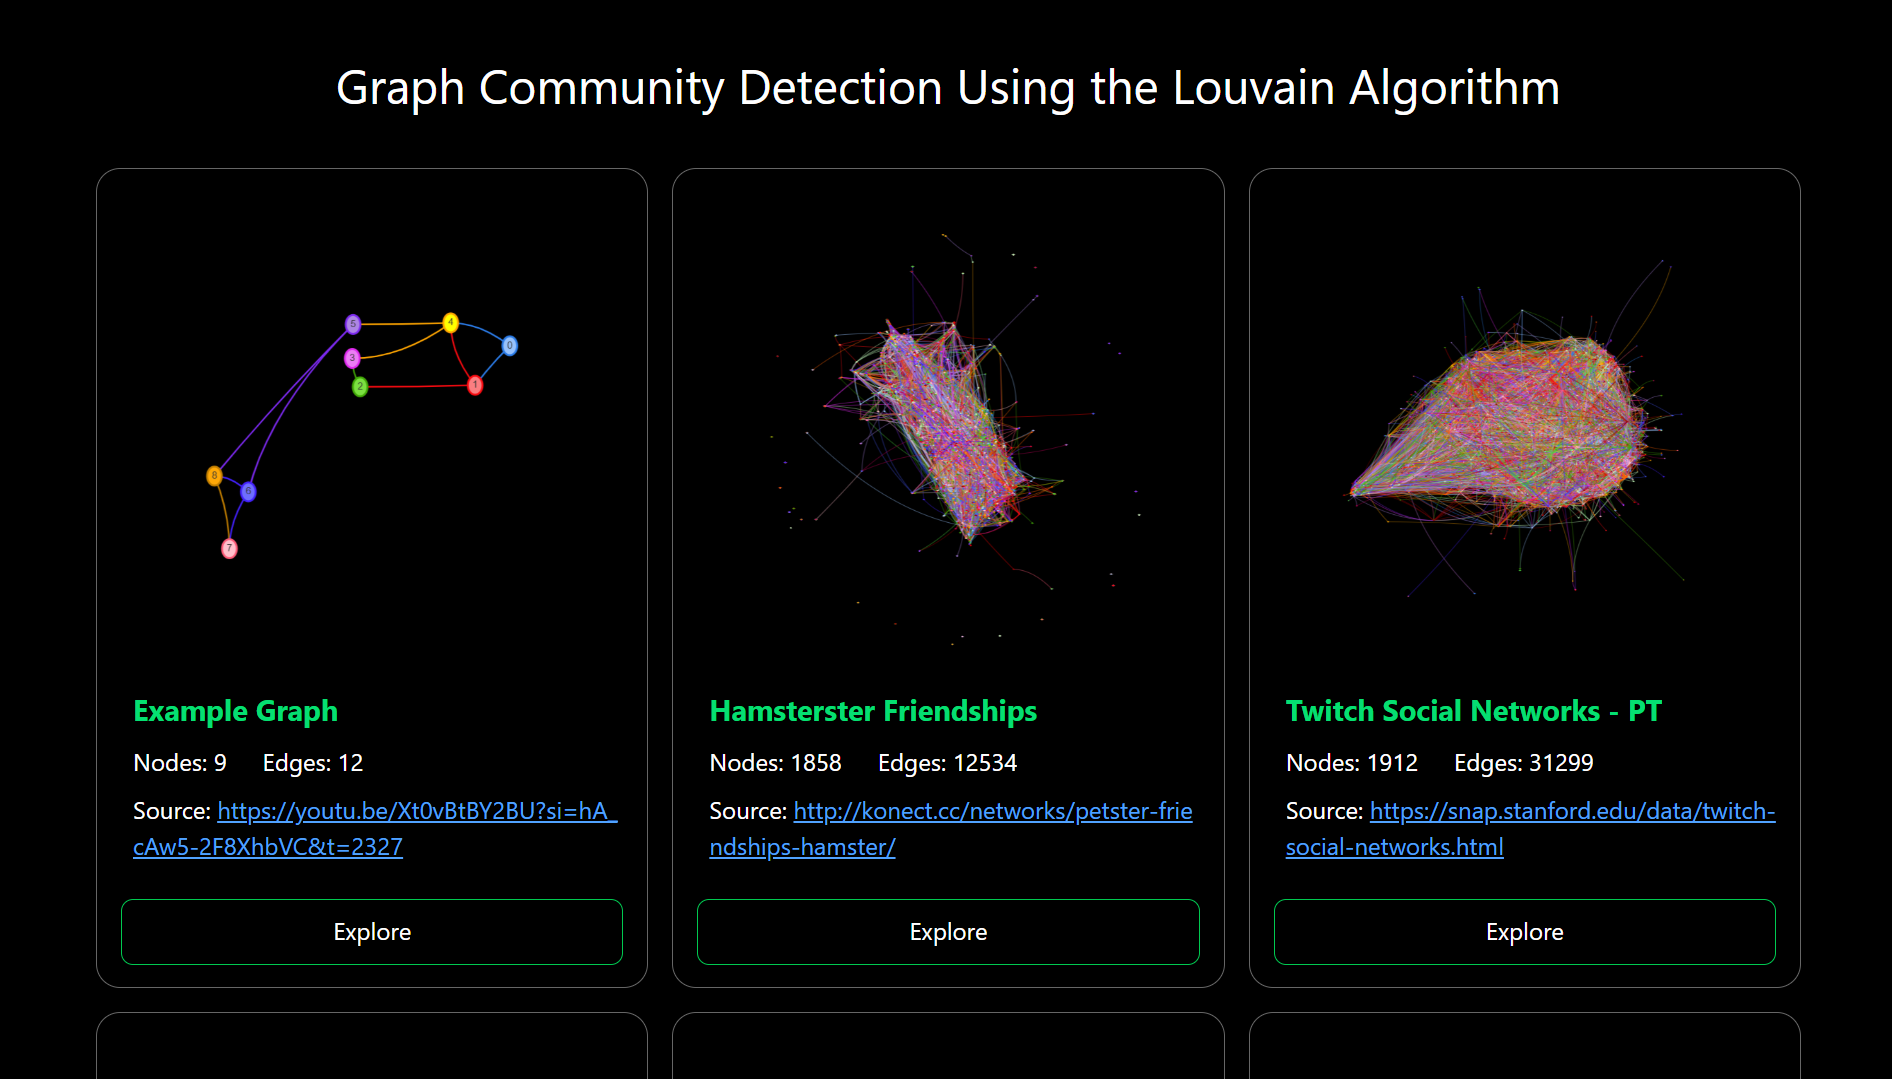
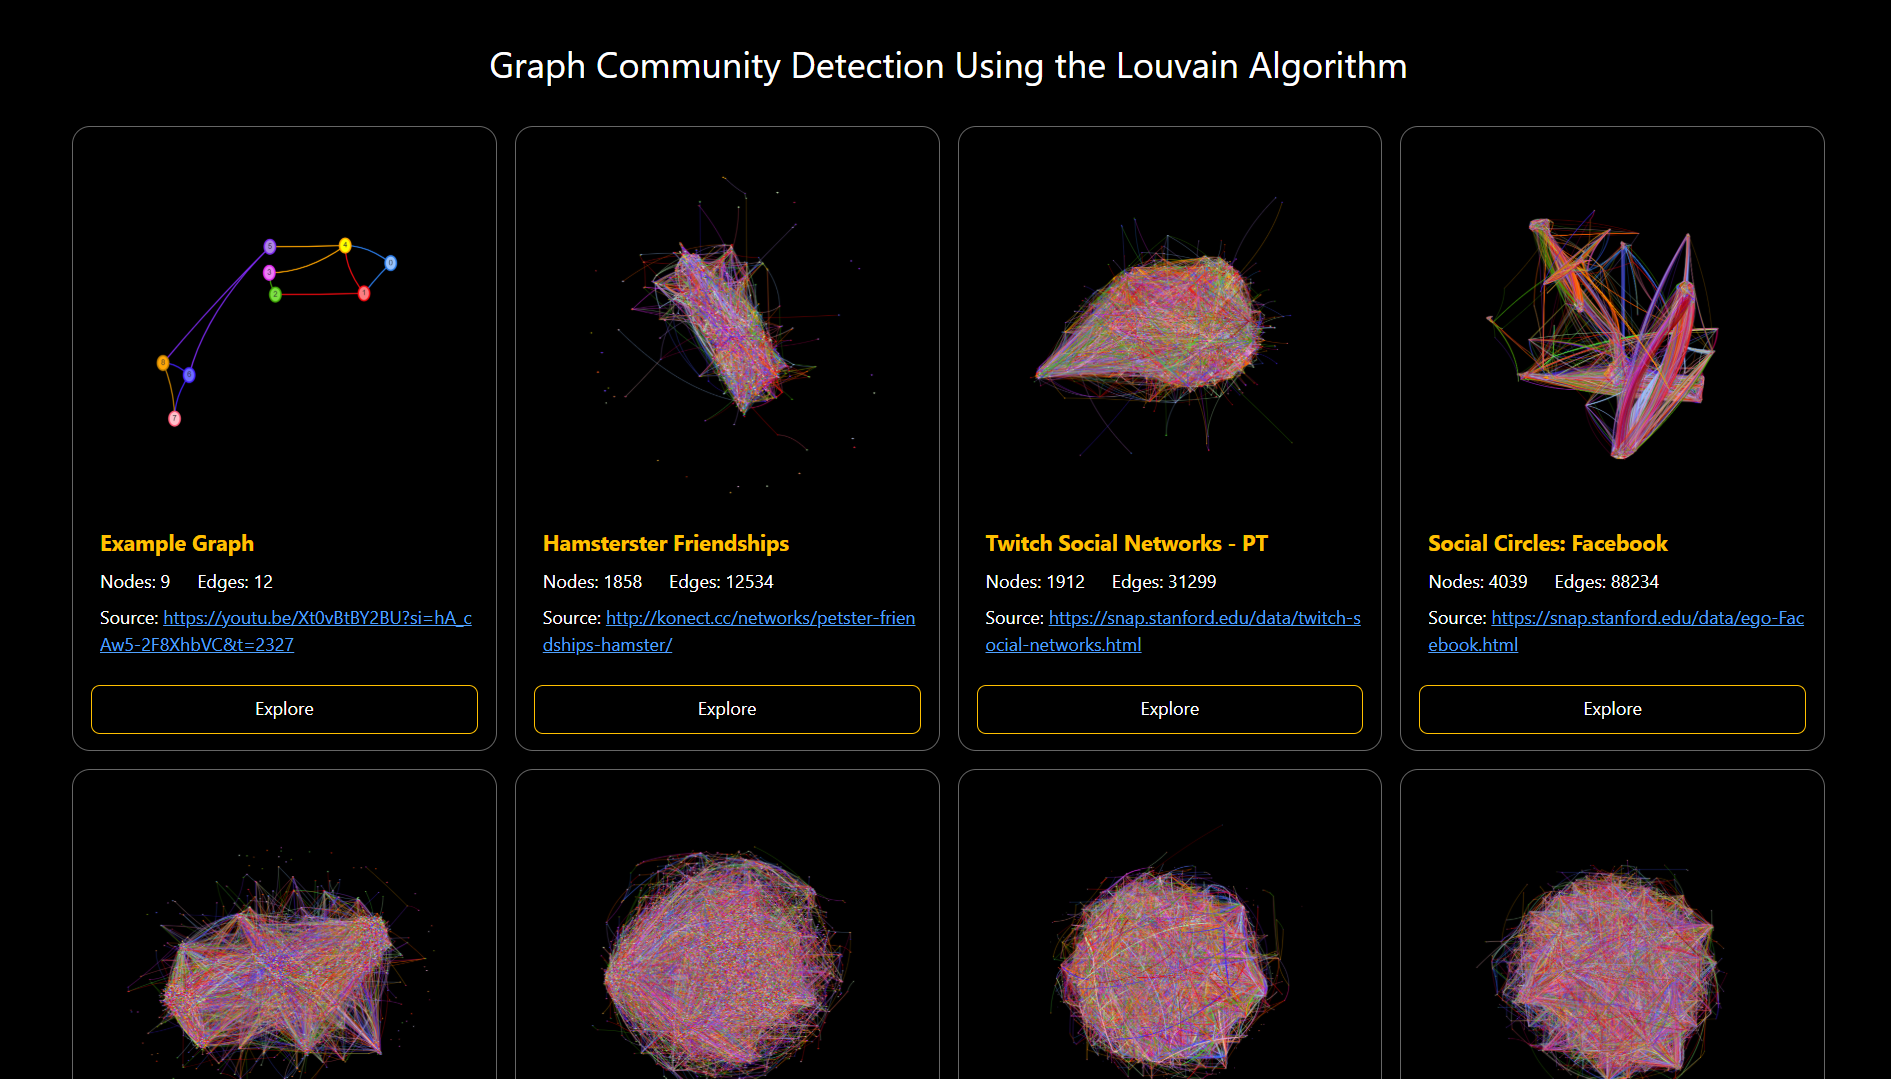
update UI screenshot in README

diff --git a/README.md b/README.md
@@ -291,9 +291,9 @@ visualization/public/<graphdirname>  Precomputed graph JSON files (served to cli
 
 ## References
 
-[1] V. D. Blondel, J.-L. Guillaume, R. Lambiotte, and E. Lefebvre, “Fast unfolding of communities in large networks,” Journal of Statistical Mechanics: Theory and Experiment, vol. 2008, no. 10, p. P10008, Oct. 2008.
+V. D. Blondel, J.-L. Guillaume, R. Lambiotte, and E. Lefebvre, “Fast unfolding of communities in large networks,” Journal of Statistical Mechanics: Theory and Experiment, vol. 2008, no. 10, p. P10008, Oct. 2008.
 
-[2] D. Plein, "Discovering Communities: Modularity & Louvain #SoMe3," YouTube, Mar. 2023. [Online]. Available: https://www.youtube.com/watch?v=Xt0vBtBY2BU. [Accessed: Mar. 25, 2026].
+D. Plein, "Discovering Communities: Modularity & Louvain #SoMe3," YouTube, Mar. 2023. [Online]. Available: https://www.youtube.com/watch?v=Xt0vBtBY2BU. [Accessed: Mar. 25, 2026].
 
 ---
 
